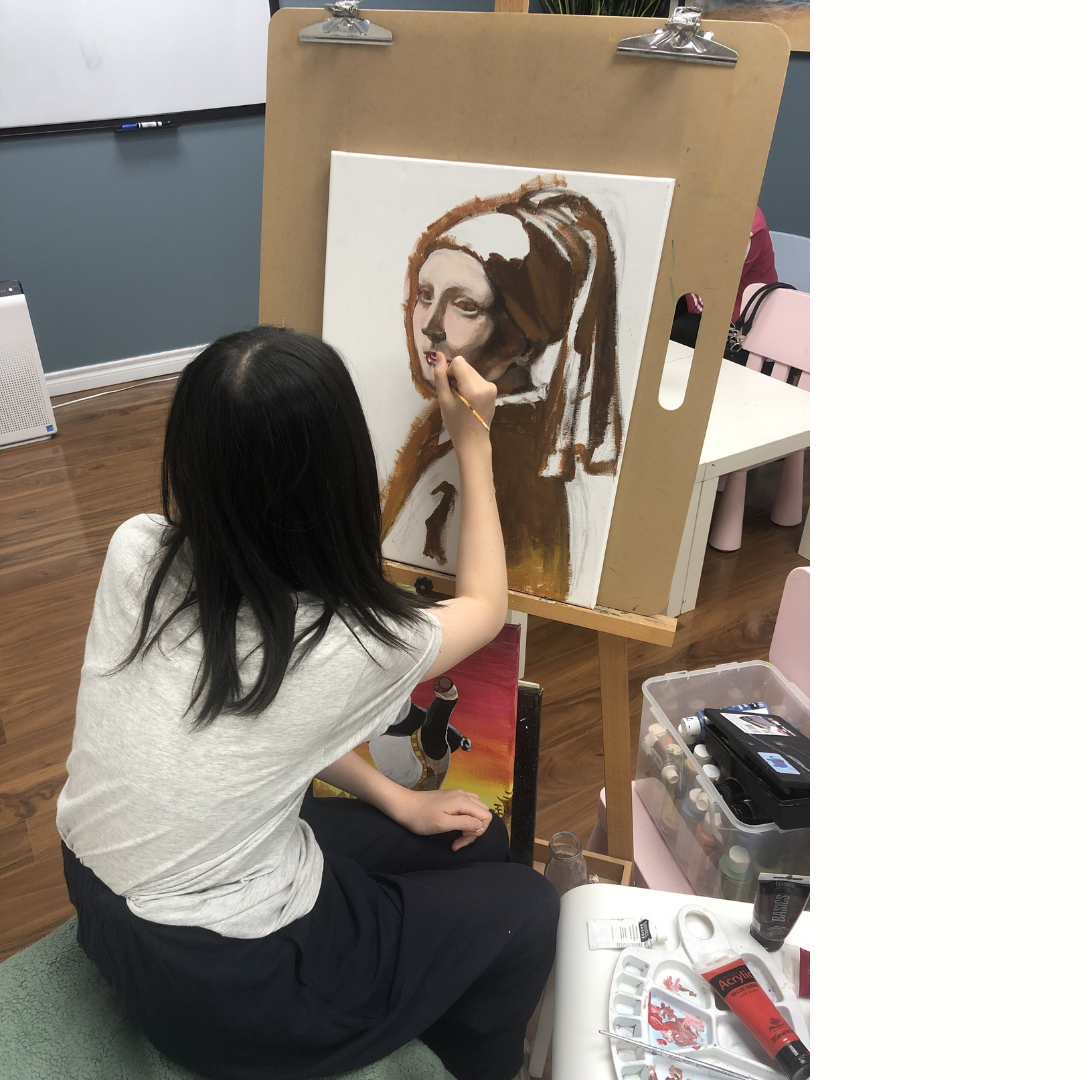
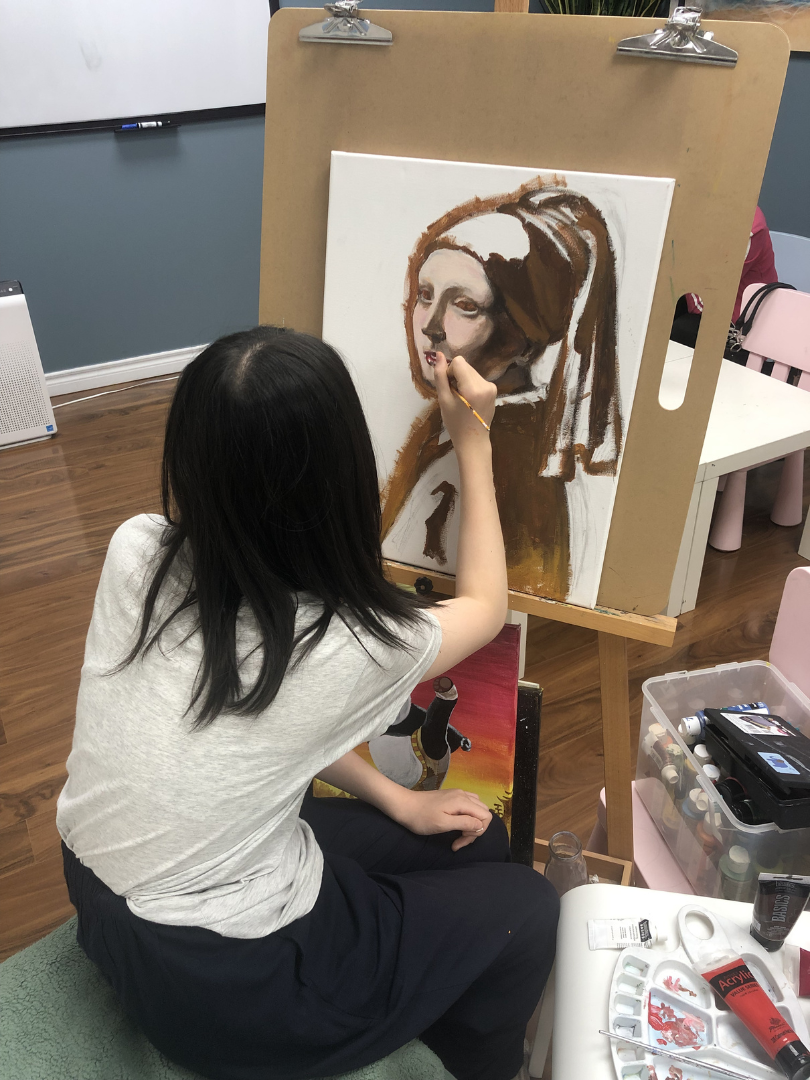
fix: trim art program photo padding

diff --git a/docs/app/art-programs-page-regression.test.ts b/docs/app/art-programs-page-regression.test.ts
@@ -39,6 +39,11 @@ function readHomePage() {
   return readFileSync(homePagePath, 'utf8')
 }
 
+function readPngSize(asset: string) {
+  const source = readFileSync(resolve(artAssetPath, asset))
+  return { width: source.readUInt32BE(16), height: source.readUInt32BE(20) }
+}
+
 test('art program assets are copied into public art-program directory', () => {
   for (const asset of expectedAssets) {
     assert.ok(existsSync(resolve(artAssetPath, asset)), `missing public art program asset: ${asset}`)
@@ -80,9 +85,13 @@ test('art programs page keeps reference card image treatments', () => {
   assert.match(source, /\.child-photo-frame::after/)
   assert.match(source, /\.teen-photo-frame::before/)
   assert.match(source, /clip-path: polygon/)
-  assert.match(source, /#children article:first-child \.child-photo-frame img[\s\S]*object-fit: contain/)
-  assert.match(source, /\.teen-grid article:first-child \.teen-photo-frame[\s\S]*aspect-ratio: 1/)
-  assert.match(source, /\.teen-grid article:first-child \.teen-photo-frame img[\s\S]*transform: none/)
+  assert.doesNotMatch(source, /transform: scale/)
   assert.match(source, /rounded-\[2rem\] bg-white\/80 p-4/)
   assert.match(source, /aspect-\[4\/3\] w-full rounded-\[1\.4rem\] object-cover/)
+})
+
+test('padded art program PNGs are trimmed before display', () => {
+  assert.deepEqual(readPngSize('age-4-6.png'), { width: 979, height: 1074 })
+  assert.deepEqual(readPngSize('age-10-12.png'), { width: 1080, height: 810 })
+  assert.deepEqual(readPngSize('age-13-15.png'), { width: 810, height: 1080 })
 })

diff --git a/docs/app/pages/art-programs.vue b/docs/app/pages/art-programs.vue
@@ -677,19 +677,5 @@ const isAssistantOpen = ref(false)
 
 .teen-photo-frame img {
   clip-path: polygon(0 7%, 6% 0, 12% 7%, 18% 0, 24% 7%, 30% 0, 36% 7%, 42% 0, 48% 7%, 54% 0, 60% 7%, 66% 0, 72% 7%, 78% 0, 84% 7%, 90% 0, 96% 7%, 100% 7%, 100% 94%, 94% 100%, 88% 94%, 82% 100%, 76% 94%, 70% 100%, 64% 94%, 58% 100%, 52% 94%, 46% 100%, 40% 94%, 34% 100%, 28% 94%, 22% 100%, 16% 94%, 10% 100%, 4% 94%, 0 94%);
-  transform: scale(1.06);
-}
-
-#children article:first-child .child-photo-frame img {
-  object-fit: contain;
-}
-
-.teen-grid article:first-child .teen-photo-frame {
-  aspect-ratio: 1;
-}
-
-.teen-grid article:first-child .teen-photo-frame img {
-  object-fit: cover;
-  transform: none;
 }
 </style>
